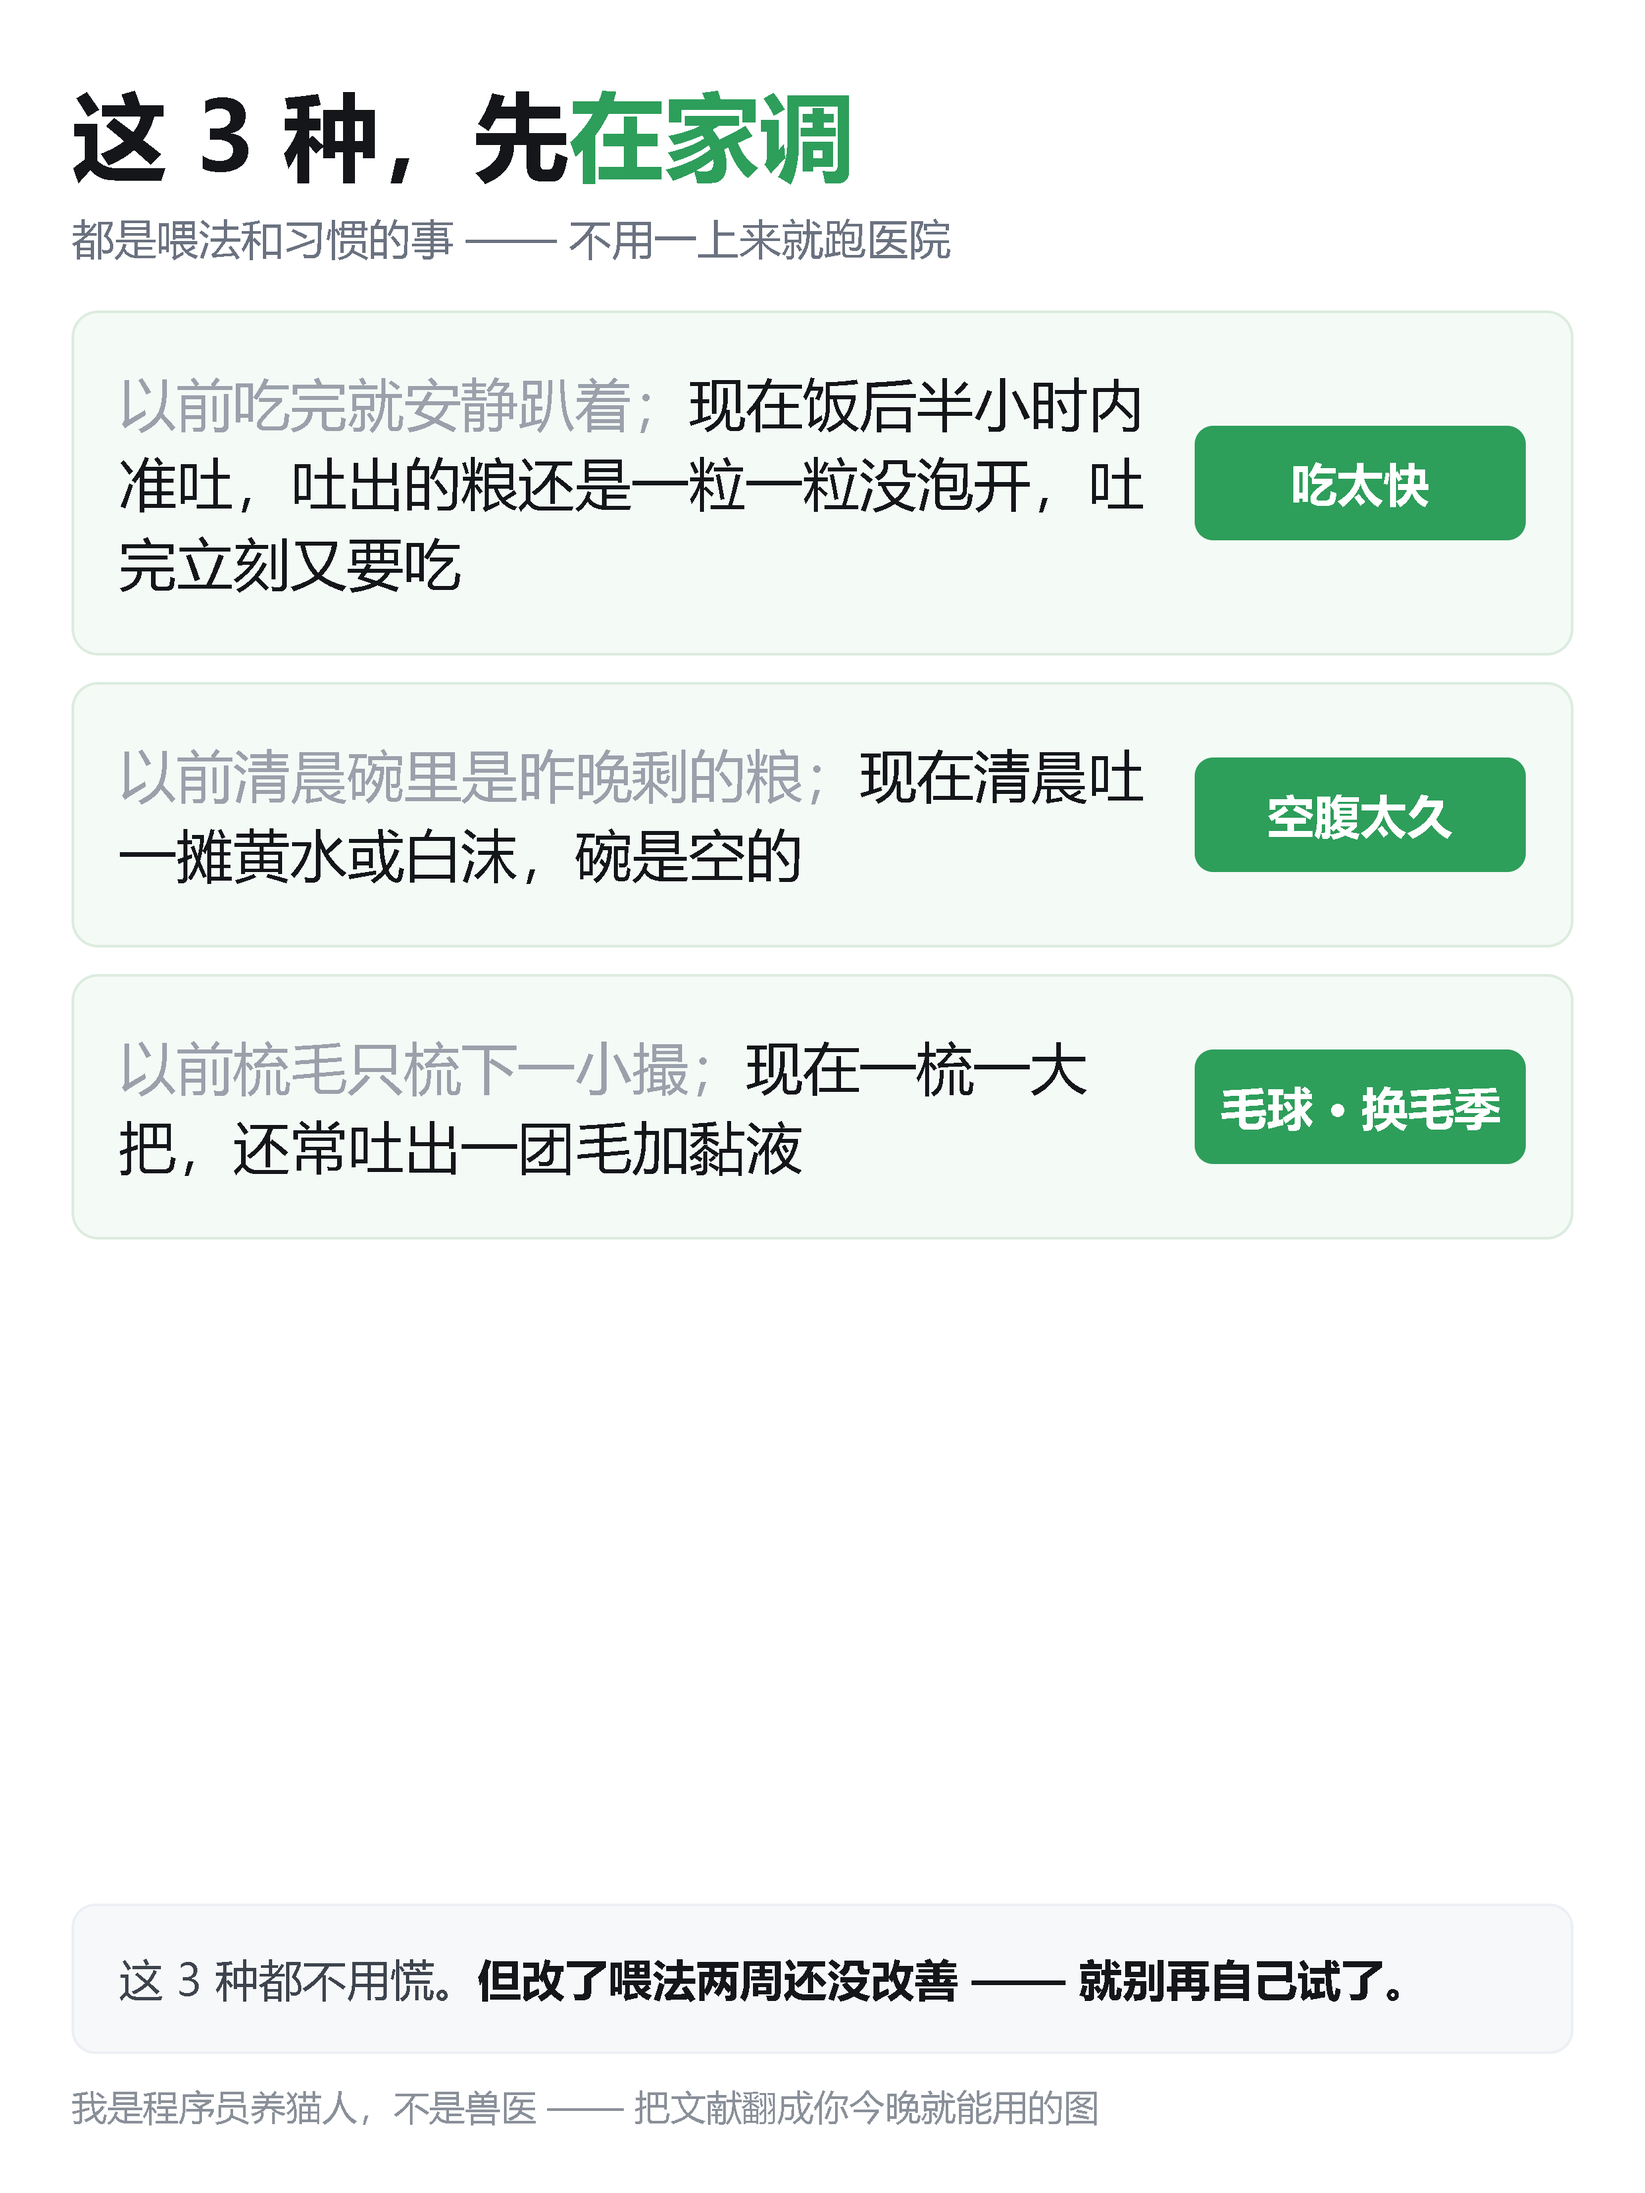
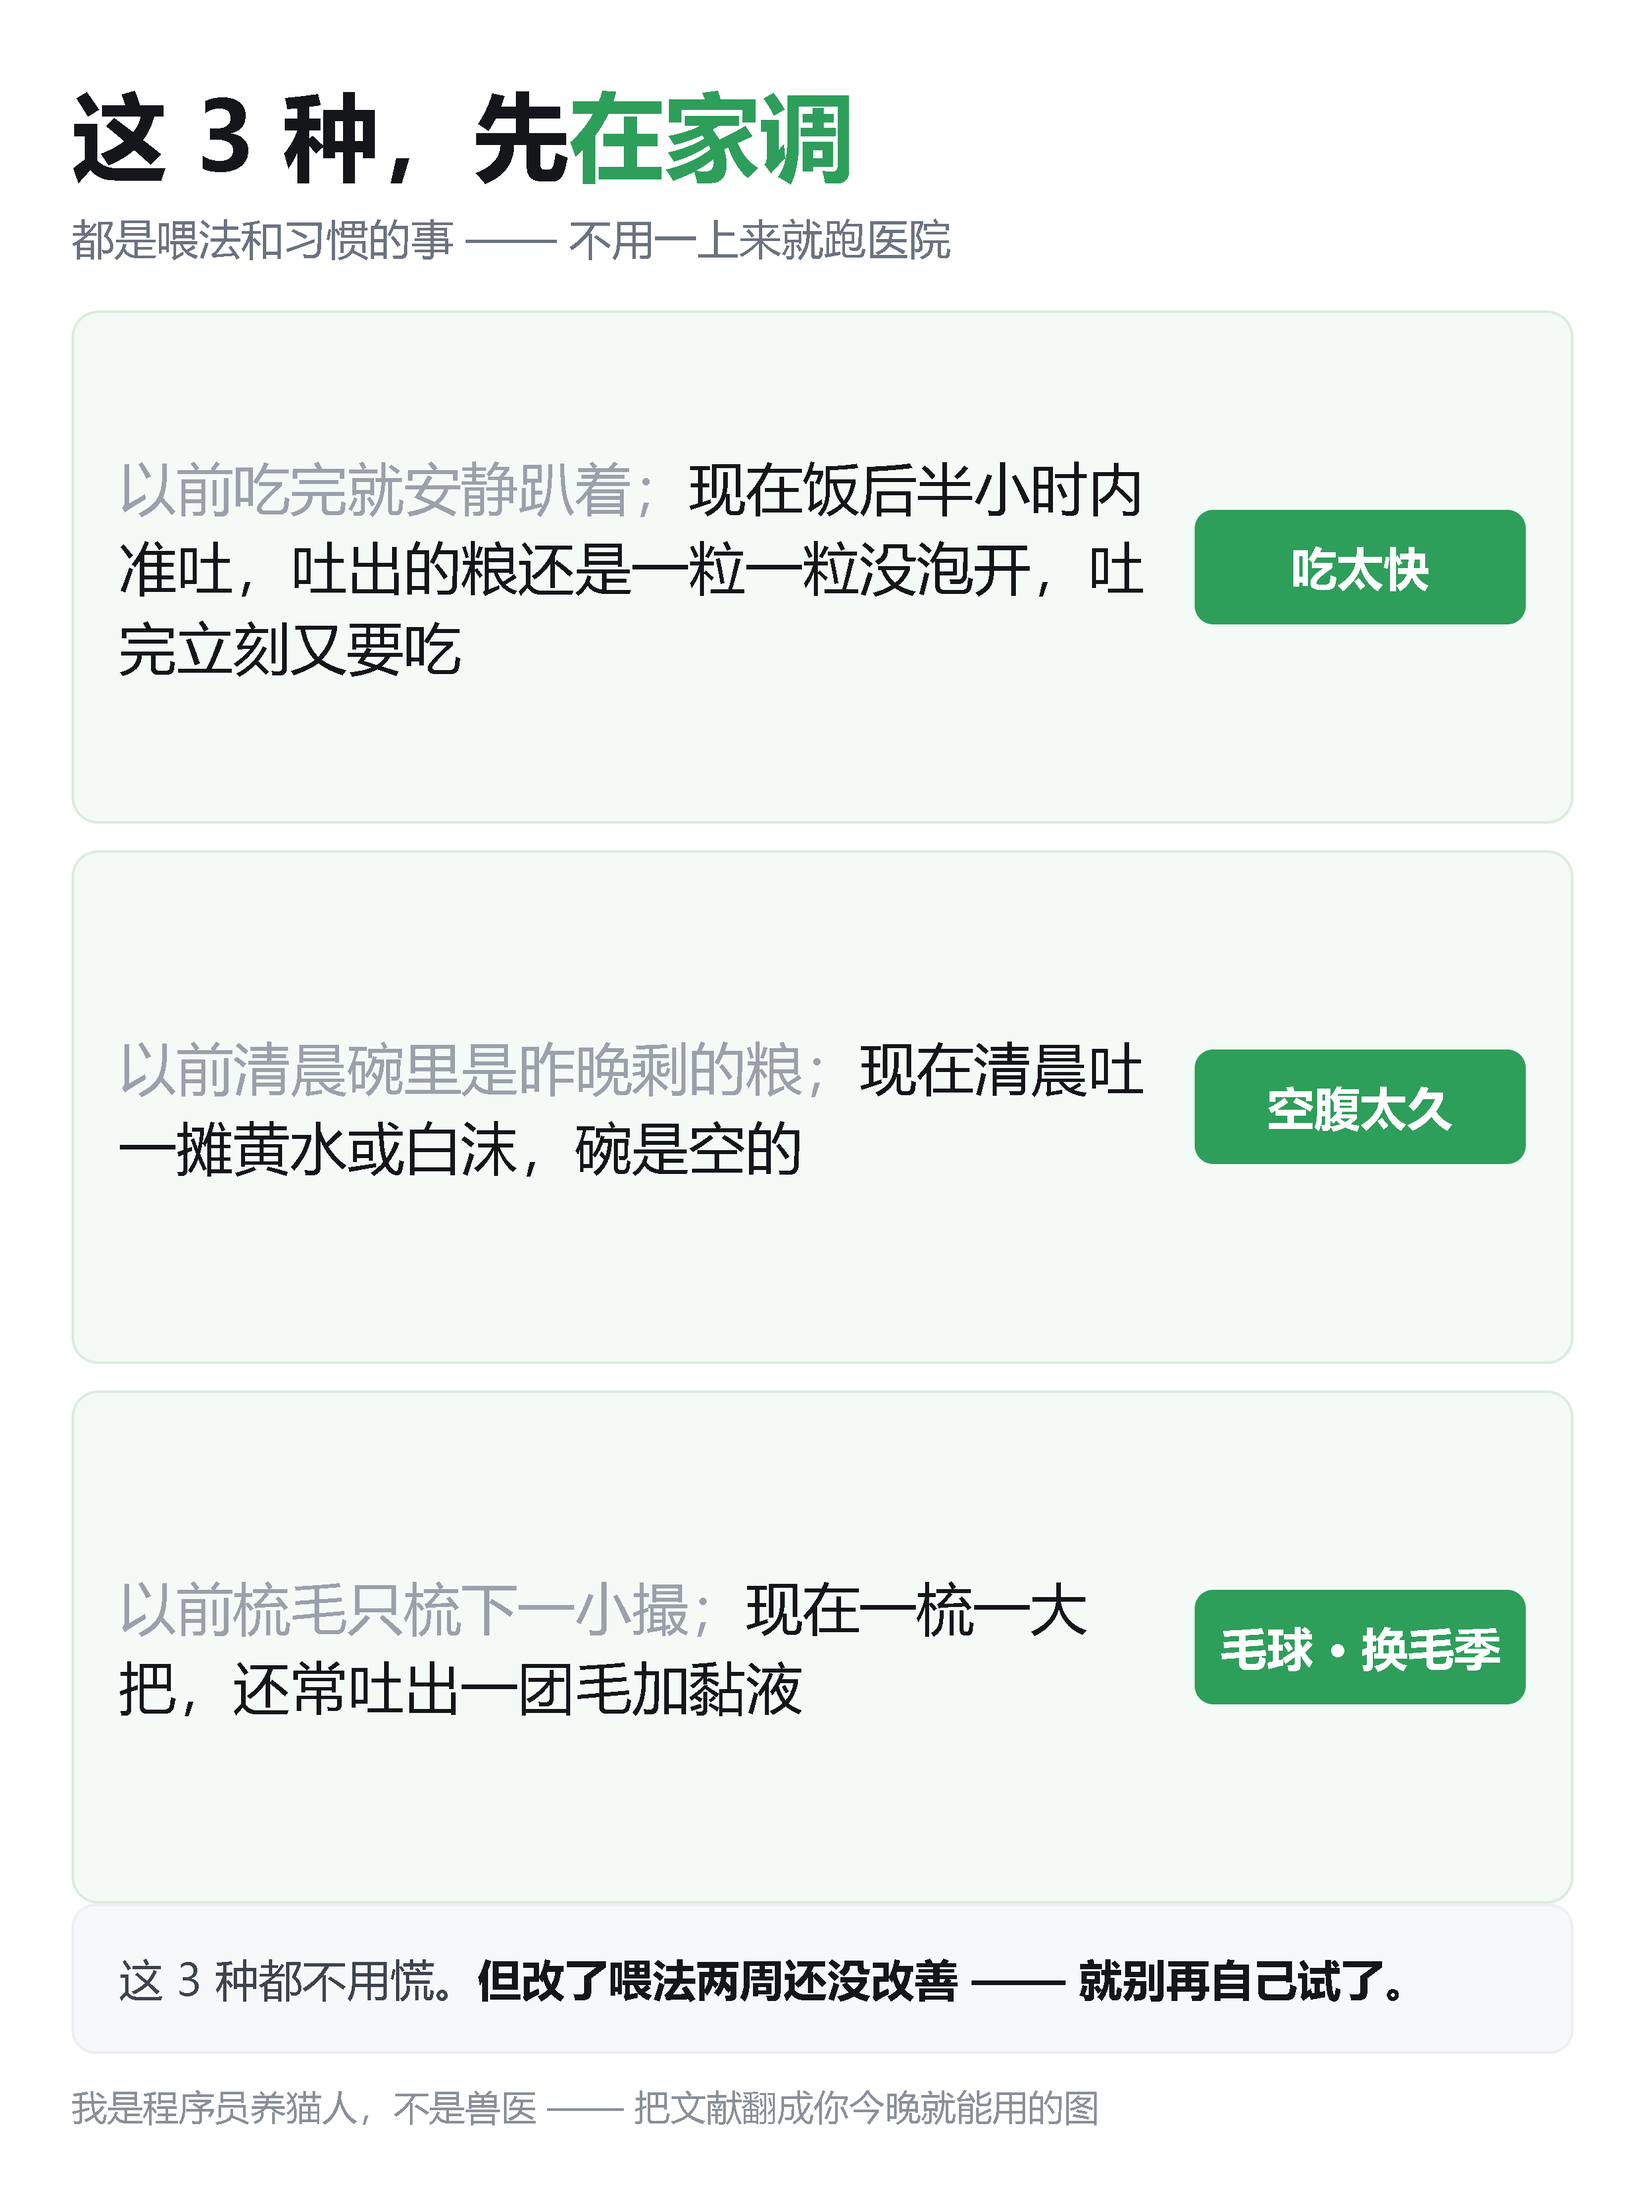
修复：第一期图2/图3 卡片未撑满导致中间空白（.row 加 flex:1）

diff --git a/40-产出/主题/猫病症自查百科/成果物/01-吐了/改版v3/第一期/第一期2-在家调的3种.html b/40-产出/主题/猫病症自查百科/成果物/01-吐了/改版v3/第一期/第一期2-在家调的3种.html
@@ -15,9 +15,9 @@
   h1 { font-size:72px; font-weight:900; line-height:1.18; }
   h1 em { font-style:normal; color:#2e9e5b; }
   .sub { font-size:32px; color:#6b7280; margin-top:16px; }
-  .rows { margin-top:34px; display:flex; flex-direction:column; gap:20px; }
+  .rows { margin-top:34px; flex:1; display:flex; flex-direction:column; gap:20px; }
   .row {
-    border:2px solid #dcecdf; border-radius:20px; background:#f4faf6;
+    flex:1; border:2px solid #dcecdf; border-radius:20px; background:#f4faf6;
     padding:38px 34px; display:flex; align-items:center; gap:24px;
   }
   .phen { flex:1; font-size:43px; line-height:1.4; }

diff --git a/40-产出/主题/猫病症自查百科/成果物/01-吐了/改版v3/第一期/第一期3-要警惕的4种.html b/40-产出/主题/猫病症自查百科/成果物/01-吐了/改版v3/第一期/第一期3-要警惕的4种.html
@@ -15,9 +15,9 @@
   h1 { font-size:72px; font-weight:900; line-height:1.18; }
   h1 em { font-style:normal; color:#e5484d; }
   .sub { font-size:32px; color:#6b7280; margin-top:16px; }
-  .rows { margin-top:30px; display:flex; flex-direction:column; gap:16px; }
+  .rows { margin-top:30px; flex:1; display:flex; flex-direction:column; gap:16px; }
   .row {
-    border-radius:20px; padding:32px 34px;
+    flex:1; border-radius:20px; padding:32px 34px;
     display:flex; align-items:center; gap:24px; border:2px solid;
   }
   .phen { flex:1; font-size:40px; line-height:1.4; }
